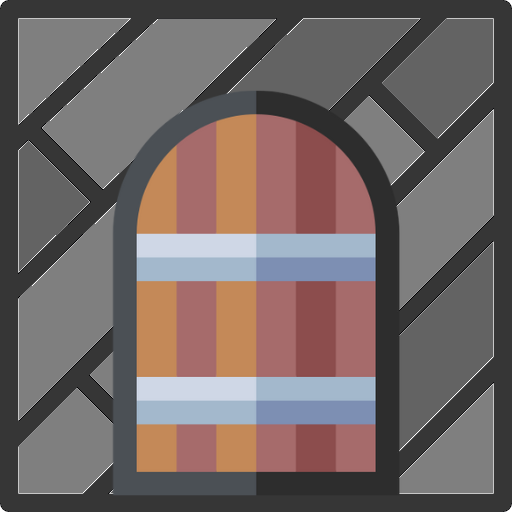
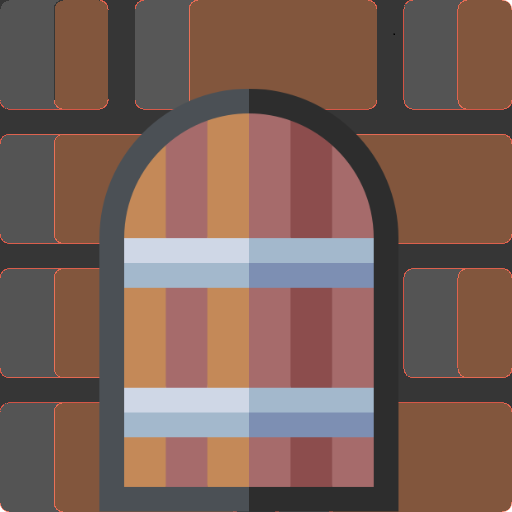
prisioneiros arrumados

diff --git a/src/Tabuleiro.java b/src/Tabuleiro.java
@@ -144,10 +144,10 @@ public class Tabuleiro extends JPanel {
            case '-': return new Parede("Parede",lin,"wall.png",col,this);
            case '~': return new Parede("Parede1",lin,"wallArv.png",col,this);
            case '+': return new Armadilha("armadilha","parquet.png", lin, col, this);
-           case 'g': return new Prisioner("Guru","wall.png", lin, col, this,"g");
-           case 'i': return new Prisioner("Io","io.png", lin, col, this,"i");
-           case 'l': return new Prisioner("Leitão","porco.png", lin, col, this,"l");
-           case 'c': return new Prisioner("Chave","key.png", lin, col, this,"l");
+           case 'g': return new Prisioner("dead.png","wall.png", lin, col, this,"g");
+           case 'i': return new Prisioner("io.png","io.png", lin, col, this,"i");
+           case 'l': return new Prisioner("porco.png","porco.png", lin, col, this,"l");
+           case 'c': return new Prisioner("key.png","key.png", lin, col, this,"c");
            case '!': {  ElementoBasico anterior = new Fundo("Fundo",lin,"parquet.png",col,null);
                         port =new Porta("porta", "door.png", lin, col, this, niveis,app,nivelAt);
                          port.setAnterior(anterior);
@@ -156,12 +156,23 @@ public class Tabuleiro extends JPanel {
                         antg = new Inimigo("Inimigo","Pooh.png",lin,col,this);
                         antg.setAnterior(anterior);
                         return antg;
-       }    
+       }
+       case '#':{  ElementoBasico anterior = new Fundo("Fundo",lin,"grass.png",col,null);
+                        antg = new Inimigo("Inimigo","Pooh1.png",lin,col,this);
+                        antg.setAnterior(anterior);
+                        return antg;
+       }
+
            case '*': {  ElementoBasico anterior = new Fundo("Fundo",lin,"parquet.png",col,null);
                         principal = new Personagem("boneco","Personagem.png",lin,col,this,"p");
                         principal.setAnterior(anterior);
                         return principal;
                     }
+                    case 'p': {  ElementoBasico anterior = new Fundo("Fundo",lin,"grass.png",col,null);
+                    principal = new Personagem("boneco","Personagem1.png",lin,col,this,"p");
+                    principal.setAnterior(anterior);
+                    return principal;
+                }
            default: throw new IllegalArgumentException("Personagem invalido: "+elem);
         }
 
@@ -227,7 +238,8 @@ public class Tabuleiro extends JPanel {
                     if (distancia <= 1) {
                         // Atualizar a imagem d
                         Prisioner prisioneiro = (Prisioner) elemento;
-                        prisioneiro.setImage(createImageIcon("dead.png"));
+                        String id = prisioneiro.getId();
+                        prisioneiro.setImage(createImageIcon(id));
                     } else {
                         // Reverter para a imagem padrão 
                         Prisioner prisioneiro = (Prisioner) elemento;

diff --git a/src/Prisioner.java b/src/Prisioner.java
@@ -7,6 +7,7 @@ public class Prisioner extends ElementoBasico {
         this.cod = cod;
         
     }
+    
 
     public String getCod() {
         return cod;
@@ -27,7 +28,7 @@ public class Prisioner extends ElementoBasico {
             personagem.setPri(getCod()); // Define o código do prisioneiro como o valor do atributo "pri" do personagem
             int lin = getLin();
             int col = getCol();
-            Parede parede = new Parede("Parede", lin, "wall.png", col, getTabuleiro());
+            Parede parede = new Parede("Parede", lin, "EmptyJail.png", col, getTabuleiro());
             getTabuleiro().insereElemento(parede);
             getTabuleiro().removeElemento(this); 
             if(this.getCod() == "c"){

diff --git a/src/Personagem.java b/src/Personagem.java
@@ -134,7 +134,7 @@ public void acao(ElementoBasico outro) {
         // Substituir o prisioneiro por uma parede
         int lin = prisioner.getLin();
         int col = prisioner.getCol();
-        Parede parede = new Parede("Parede", lin, "wall.png", col, getTabuleiro());
+        Parede parede = new Parede("Parede", lin, "EmptyJail.png", col, getTabuleiro());
         getTabuleiro().insereElemento(parede);
         getTabuleiro().removeElemento(prisioner); 
         if(prisioner.getCod() == "c"){
